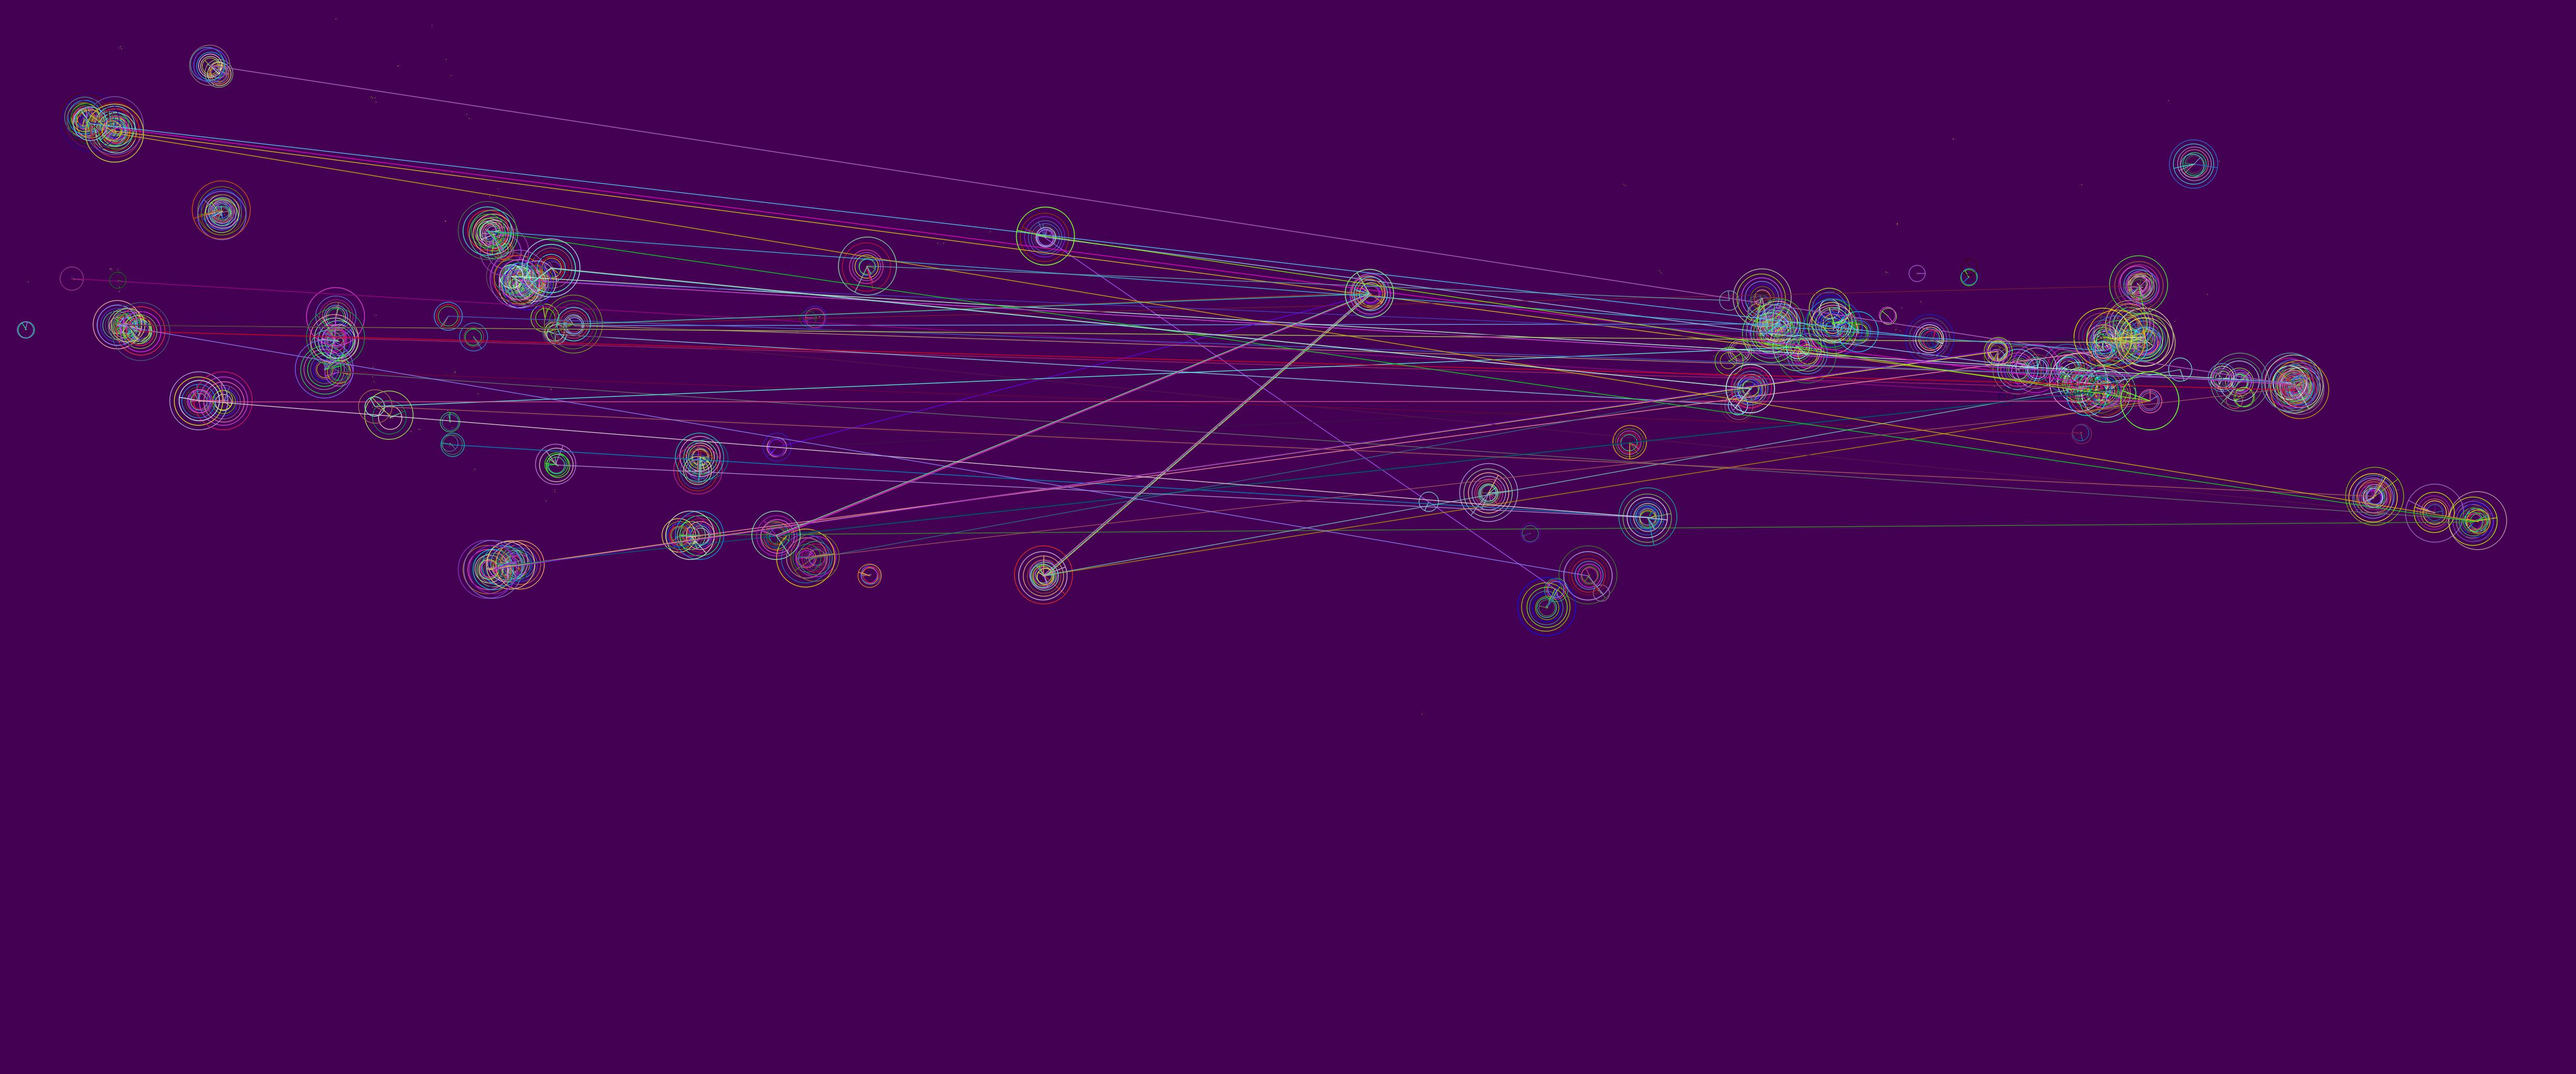
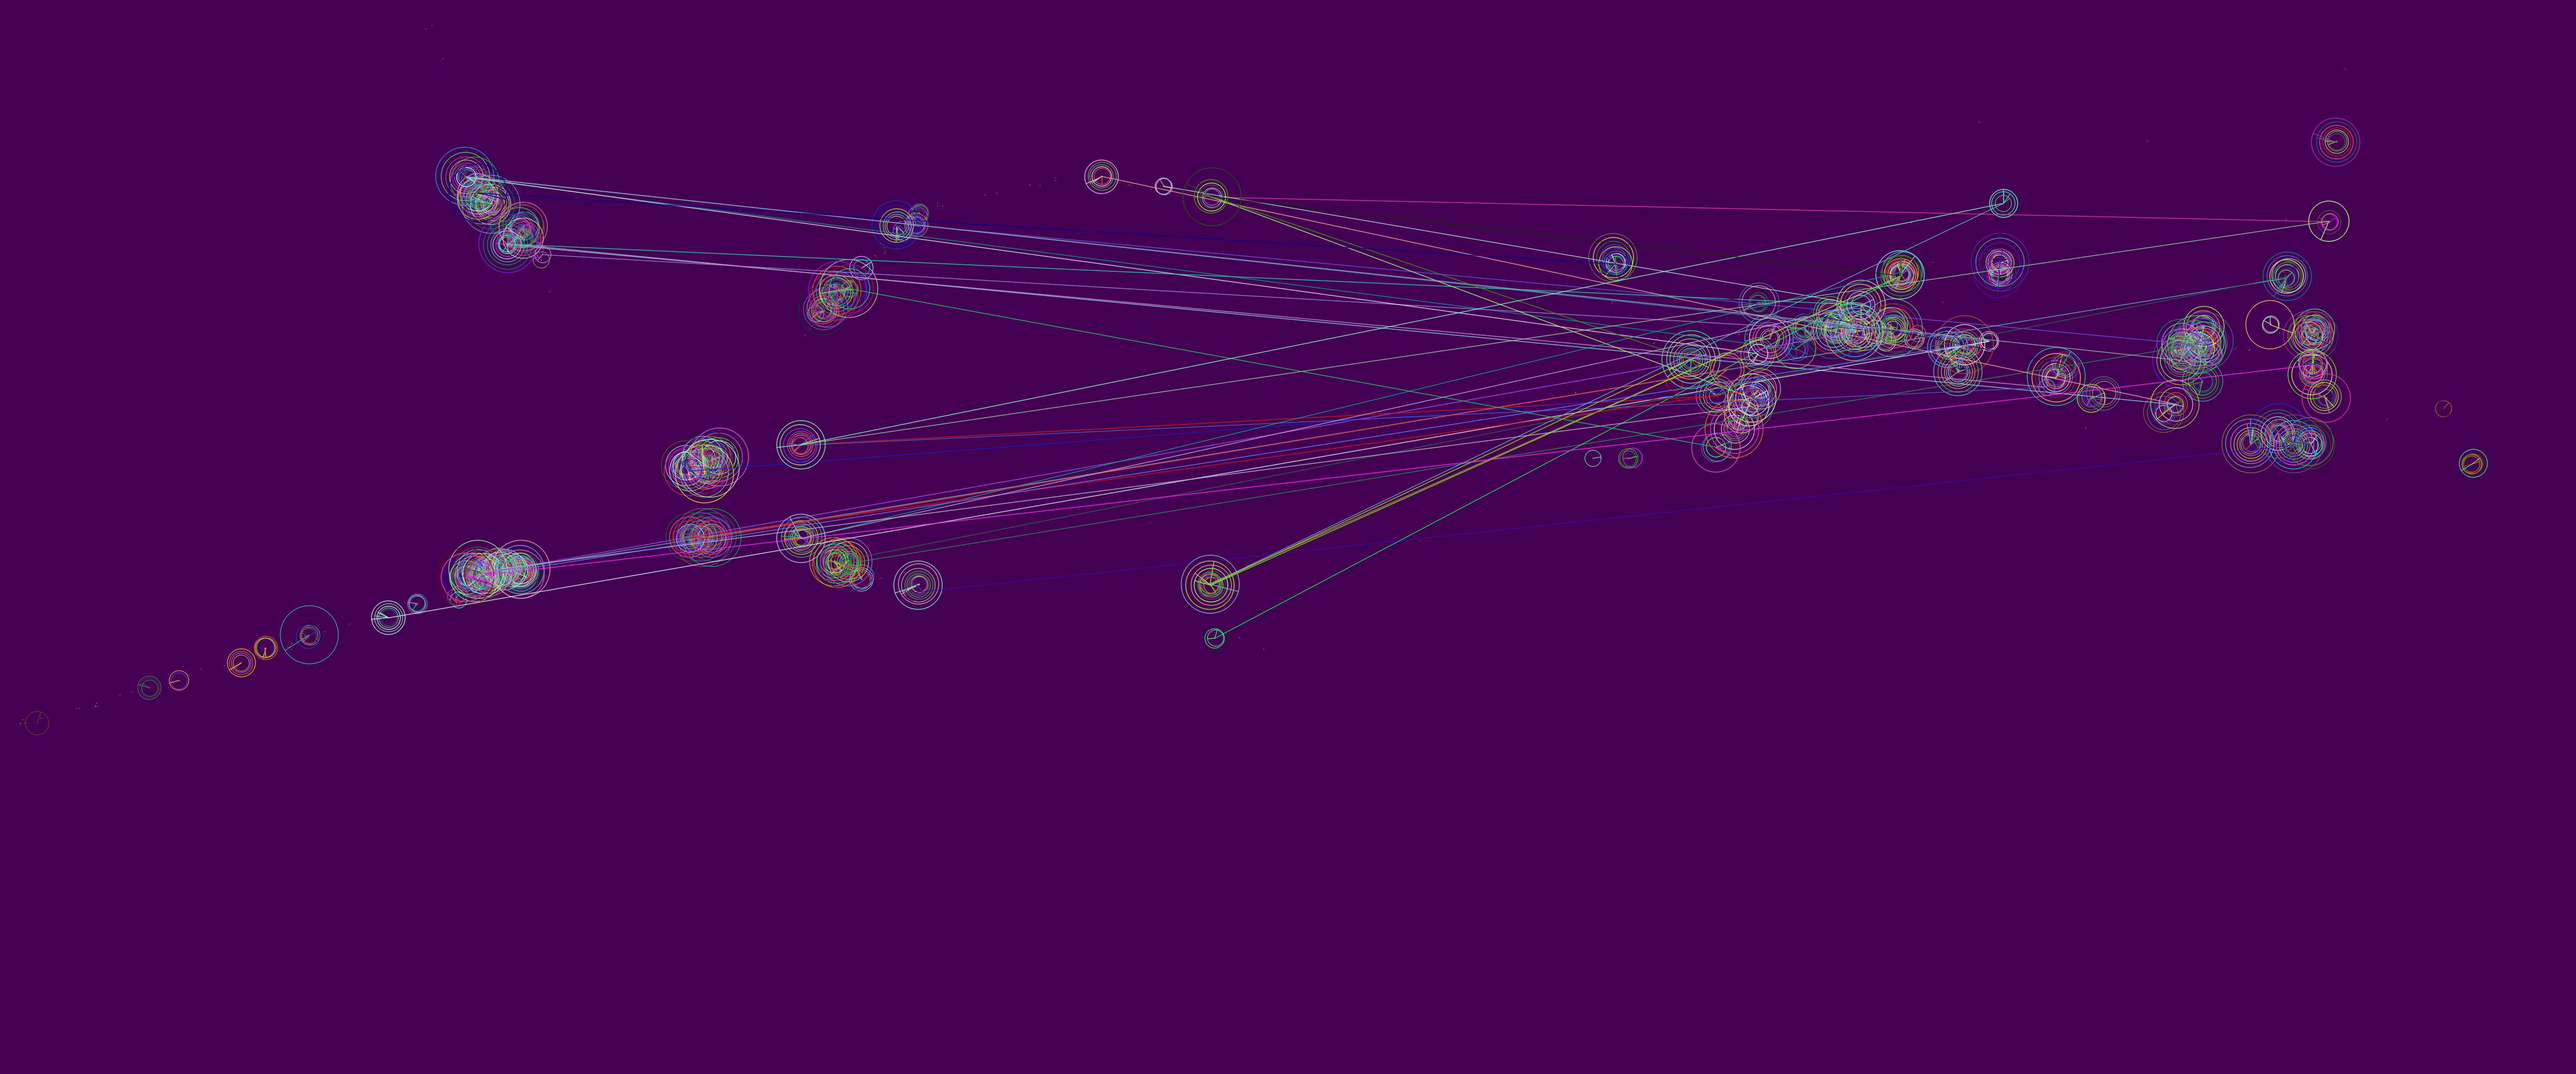
Update extractCoords.py

diff --git a/Manager_3DCoords.py b/Manager_3DCoords.py
@@ -85,8 +85,8 @@ def main(cam,GNSS,mesh,image_folder_real,image_folder_LoD,folder_mask,ans,traj_p
             #a_real = a_real[:,:,0]
             #a_LoD = plt.imread(r'./images_sobel/image_LoD.jpeg')
             #a_LoD = a_LoD[:,:,0]
-            coord1_LoD_2D_selection = np.array([[827.0,56.0],[873.0,174.0],[1267.0,262.0],[1434.0,103.0],[496.0,5.0],[520.0,27.0],[516.0,207.0],[482.0,182],[612.0,138.0],[631.0,157.0],[613.0,283.0],[599.0,273.0],[795.0,143.0],[1737.0,378]])
-            coord1_real_2D_selection = np.array([[1056.0,505.0],[1100.0,621.0],[1488.0,678.0],[1661.0,503.0],[615.0,306.0],[645.0,341.0],[648.0,536.0],[616.0,520.0],[784.0,509.0],[804.0,526.0],[802.0,669.0],[784.0,662],[1015.0,551.0],[2001.0,567.0]])
+            #coord1_LoD_2D_selection = np.array([[827.0,56.0],[873.0,174.0],[1267.0,262.0],[1434.0,103.0],[496.0,5.0],[520.0,27.0],[516.0,207.0],[482.0,182],[612.0,138.0],[631.0,157.0],[613.0,283.0],[599.0,273.0],[795.0,143.0],[1737.0,378]])
+            #coord1_real_2D_selection = np.array([[1056.0,505.0],[1100.0,621.0],[1488.0,678.0],[1661.0,503.0],[615.0,306.0],[645.0,341.0],[648.0,536.0],[616.0,520.0],[784.0,509.0],[804.0,526.0],[802.0,669.0],[784.0,662],[1015.0,551.0],[2001.0,567.0]])
             #coord1_LoD_2D_selection = np.concatenate([coord1_LoD_2D_selection[:,1],coord1_LoD_2D_selection[:,0]])
             #coord1_real_2D_selection = np.concatenate([coord1_real_2D_selection[:,1],coord1_real_2D_selection[:,0]])
             

diff --git a/main.py b/main.py
@@ -50,7 +50,7 @@ chosenImageType = image_type[0]
 #curr_model = LoD3_70
 #curr_model = TUM_LoD3
 
-curr_model = 'LoD-3' #'LoD-2'
+curr_model = 'LoD-2' #'LoD-2'
 
 folder_mask = r'E:\Bachelorthesis\9_Route3_seg_buildings'
 
@@ -84,7 +84,7 @@ GNSS = DataPrep.data_prep(GNSS, camera)
 #%% Ray Casting and Coordinate Calculation
 points_traj = np.array([0,0,0])
 points_traj = points_traj[:,np.newaxis]
-for img in range(5,6):
+for img in range(5,8):
     ans,mesh,path = RC.raycasting(camera,curr_model,ImageFolder,GNSS,viewpoint_cam,img)
 
     # Get coords and calculate camera position
